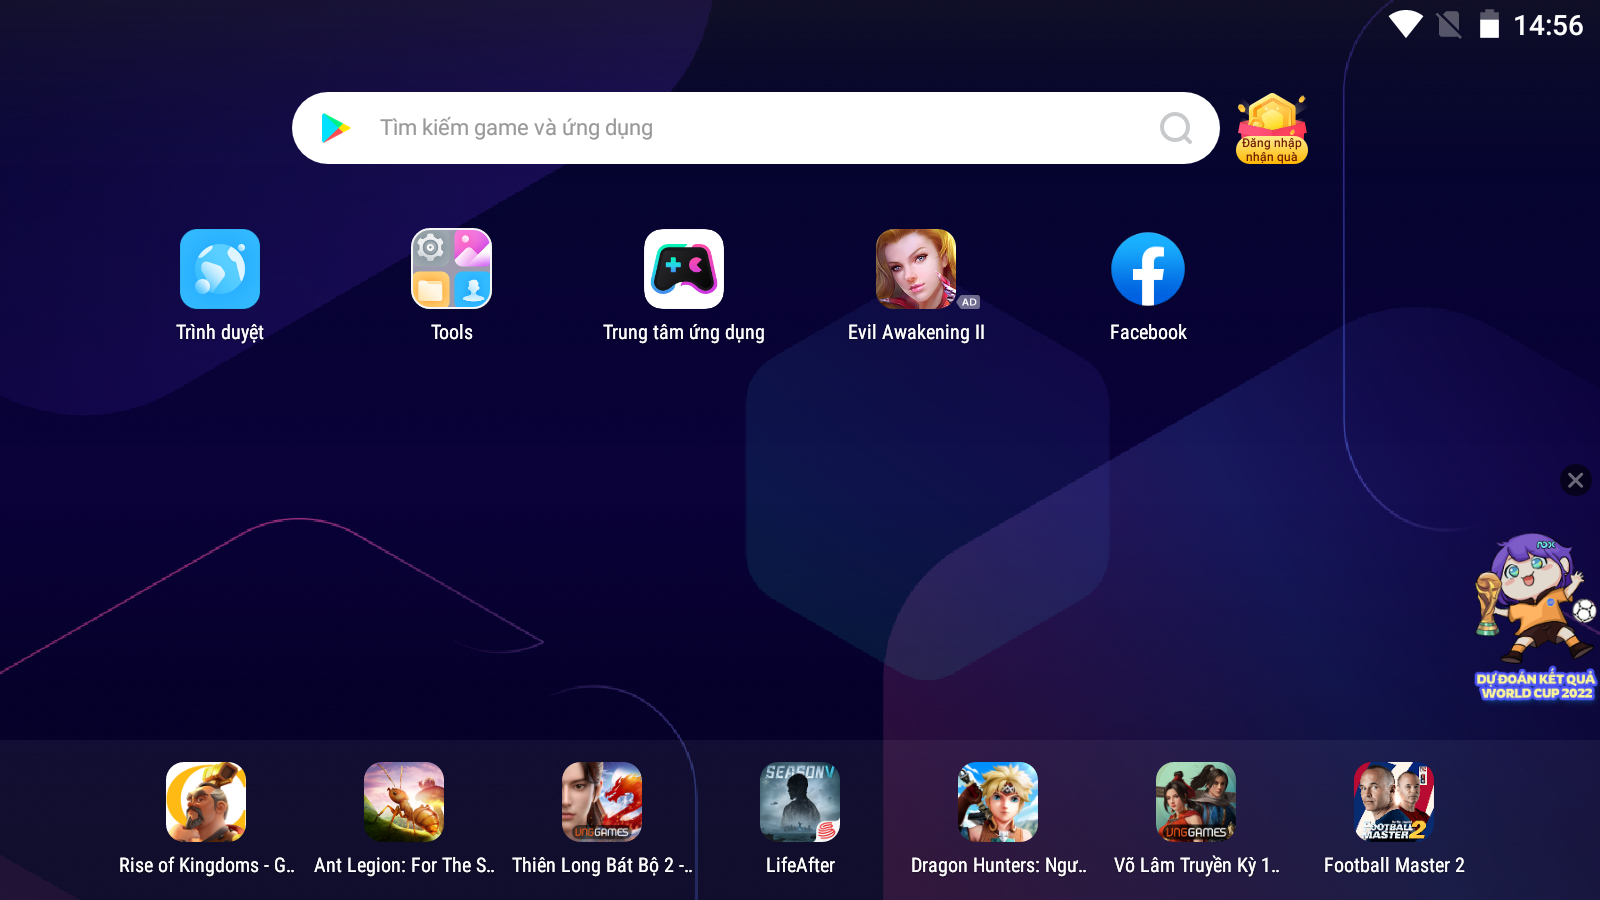
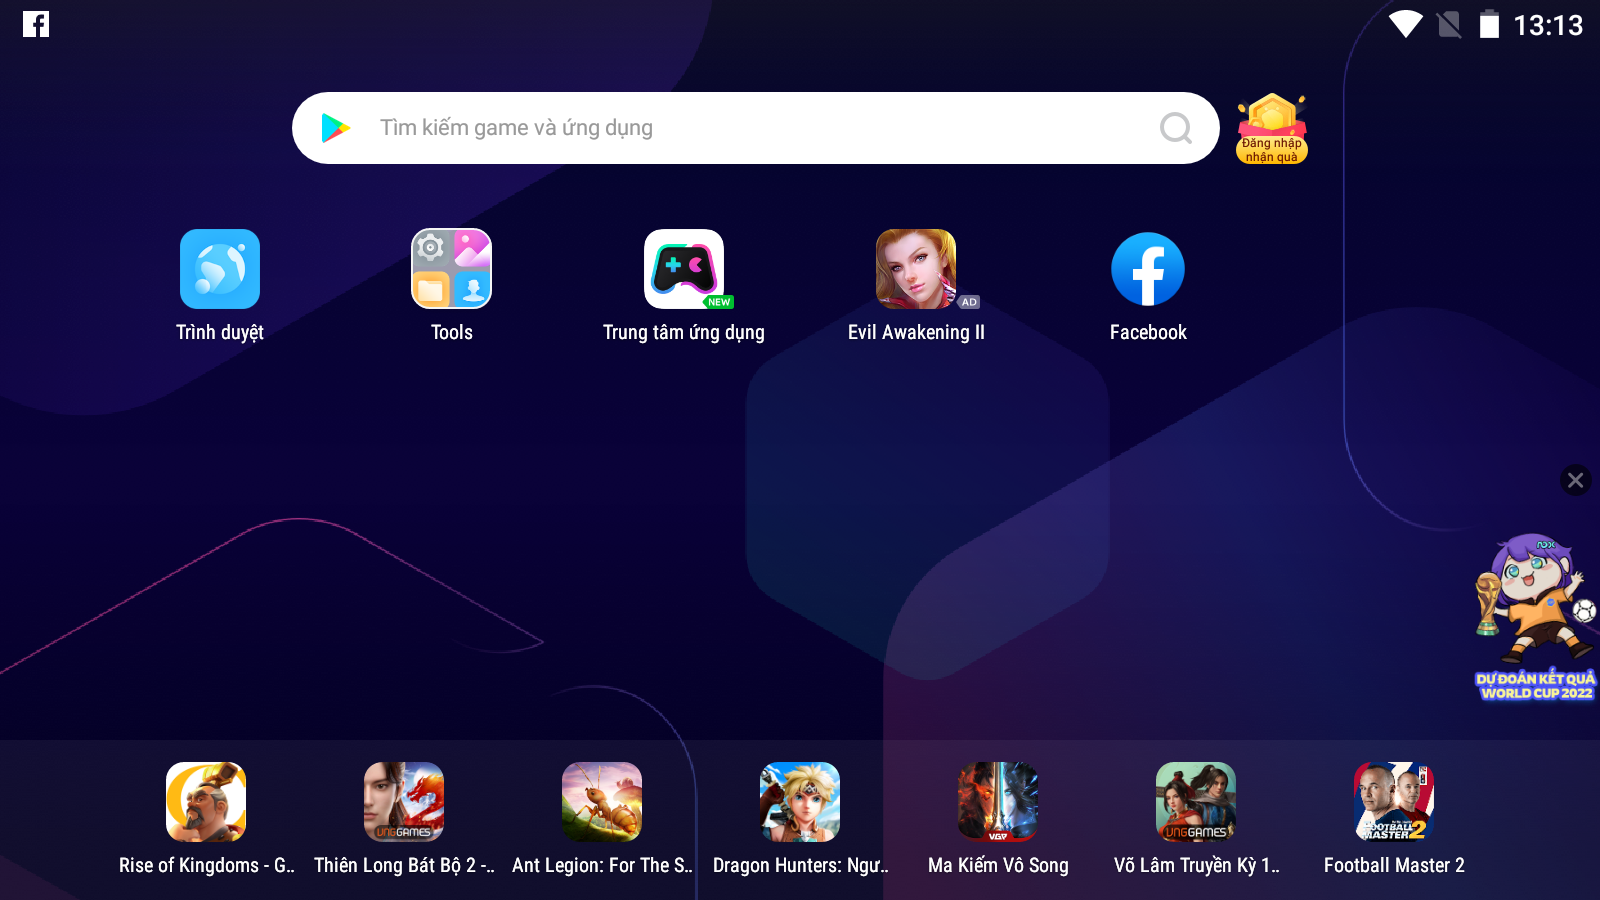
open facebook success

diff --git a/emulator.py b/emulator.py
@@ -1,15 +1,54 @@
 
+try: 
+    from ppadb.client import Client as AdbClient
+    import numpy as np
+    import cv2
+except:
+    os.system("pip install ppadb")
+    os.system("pip install cv2")
+    os.system("pip install numpy")
+    os.system("pip install opencv-python")
+
 from ppadb.client import Client as AdbClient
+import numpy as np
 import cv2
 
 class Emulator:
     def __init__(self, device):
         self.device = device
+        self.screen_img = ""
     
     def capture_screen(self):
         print (self.device.serial)
         result = self.device.screencap()
-        file = "{}.png".format(self.device.serial.split(":")[1])
-        print(file)
-        with open(file, "wb") as fp:
+        self.screen_img = "{}.png".format(self.device.serial.split(":")[1])
+        with open(self.screen_img, "wb") as fp:
             fp.write(result)
+
+    def find(self,template_pic_name=False,threshold=0.99):
+        point = (0,0)
+        if template_pic_name == False:
+            return point
+        
+        img = cv2.imread(self.screen_img)
+        img2 = cv2.imread("facebook.PNG")
+        
+        _, w1, h1 = img.shape[::-1]
+        _, w2, h2 = img2.shape[::-1]
+
+        print(w1, h1)
+        print(w2, h2)
+
+        res = cv2.matchTemplate(img,img2,cv2.TM_CCOEFF_NORMED)
+        min_val, max_val, min_loc, max_loc = cv2.minMaxLoc(res)
+        top_left = max_loc
+        bottom_right = (top_left[0] + w2, top_left[1] + h2)
+
+        # print(top_left)
+        # print(bottom_right)
+        # cv2.rectangle(img,top_left, bottom_right, (0, 255, 255), 0)
+        # cv2.imshow('fb', img)
+        # cv2.waitKey(0)
+    
+        point = (top_left[0] + w2/2, top_left[1] + h2/2)
+        self.device.input_tap(point[0], point[1])

diff --git a/auto_adb.py b/auto_adb.py
@@ -16,6 +16,8 @@ class Auto:
         for device in self.devices:
             e = emulator.Emulator(device)
             screen = e.capture_screen()
+            point = e.find("facebook.PNG")
+            print(point)
 
 auto = Auto()
 # auto.list_devices()
